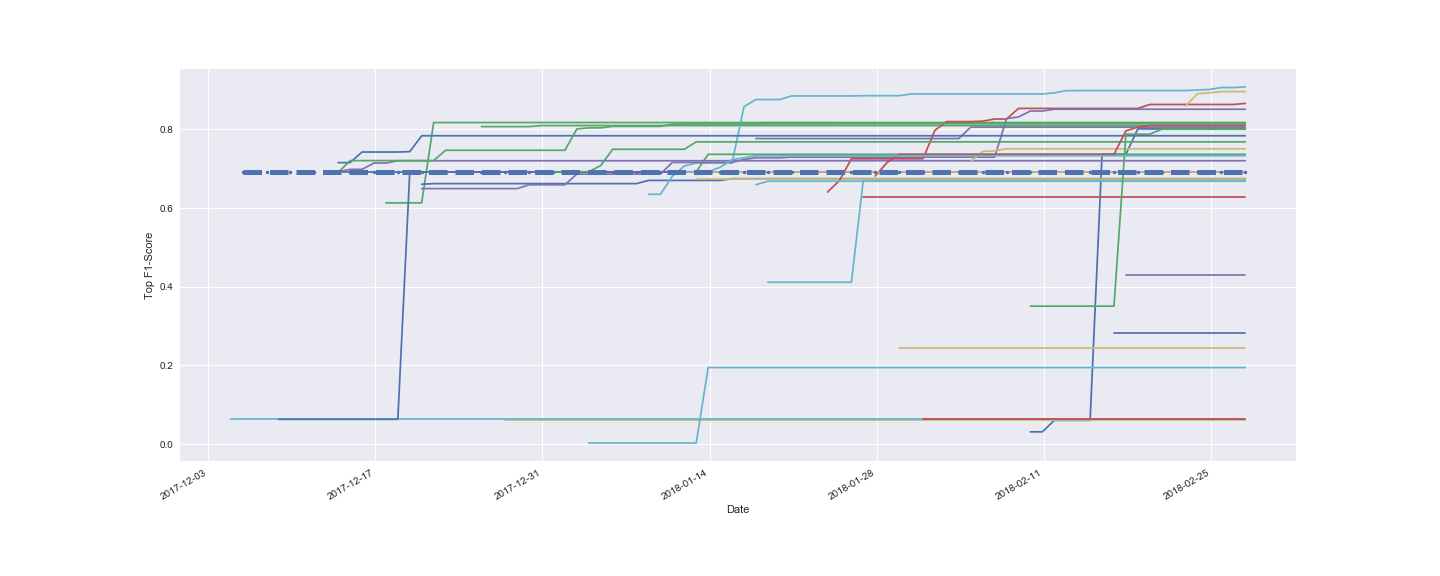
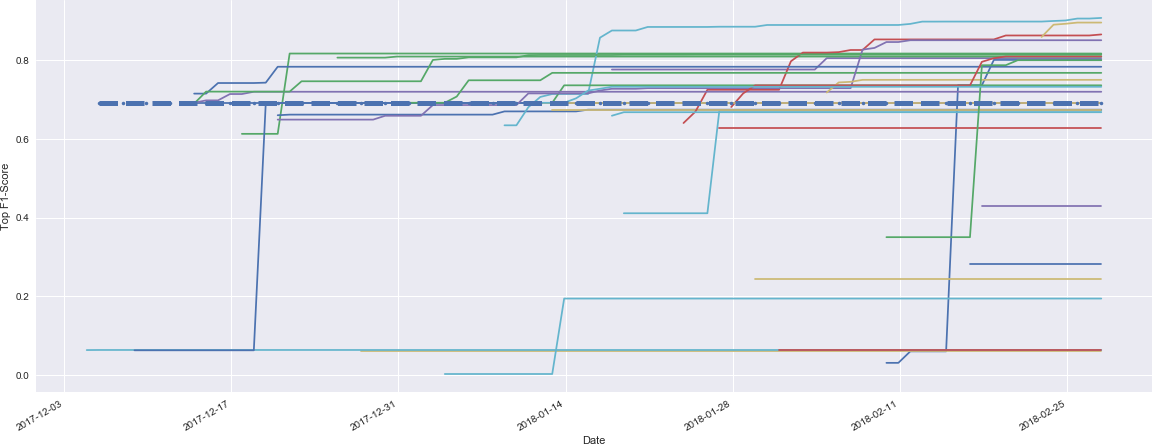
edit round

diff --git a/fma_crowdai_challenge.tex b/fma_crowdai_challenge.tex
@@ -5,10 +5,10 @@
 
 
 % Copyright
-%\setcopyright{none}
+\setcopyright{none}
 %\setcopyright{acmcopyright}
 %\setcopyright{acmlicensed}
-\setcopyright{rightsretained}
+%\setcopyright{rightsretained}
 %\setcopyright{usgov}
 %\setcopyright{usgovmixed}
 %\setcopyright{cagov}
@@ -72,19 +72,20 @@
 %\renewcommand{\shortauthors}{M. Defferrard et al.}
 
 % Content
-% * show statistics (e.g. results over time for all participants)
+% * compile the initial proposal on the challenge design into a paper
 % * discuss the challenge
+% * show statistics (e.g. results over time for all participants)
+%	* include stats of participation from the challenge
 % * offer an overview of the approaches that have been tried
 % * paper corresponds to what we'll talk about at the conference
 % * summary of what we learned overall during the challenge
-% * compile the initial proposal on the challenge design into a paper
-% * include stats of participation from the challenge
-% * summary of our experience running the challenge
-% * major problems faced
-% * suggestions for future versions of the challenge
+%	* summary of our experience running the challenge
+% 	* major problems faced
+%	* suggestions for future versions of the challenge
 
 \begin{abstract}
-	todo
+	We here summarize our experience running a challenge for musical genre recognition. We present the task, the need for an open challenge, how we set it up, and some results.
+	%We show how an open challenge can help improve a task.
 \end{abstract}
 
 
@@ -121,15 +122,17 @@ The task of this challenge, one of the four official challenges of the Web Confe
 % TODO: maybe remove the below.
 Other metadata, e.g.\ the song title or artist name, were not to be used for the prediction. The submitted algorithms were required to learn how to map an audio signal, i.e.\ a time series, to one of the 16 target genres.
 
-The data for this challenge comes from the recently published FMA dataset~\cite{fma_dataset}, which is a dump of the Free Music Archive\footnote{\url{https://freemusicarchive.org}} (FMA), an interactive library of high-quality and curated audio which is freely and openly available to the public.
-That dataset is a collection of 917 GiB and 343 days of Creative Commons-licensed audio from 106,574 tracks from 16,341 artists and 14,854 albums, arranged in a hierarchical taxonomy of 161 genres. It provides full-length and high-quality audio, pre-computed features, together with track- and user-level metadata, tags, and free-form text such as biographies.
-
-\section{Music Genre Recognition}
-
 Music genres are categories that have arisen through a complex interplay of cultures, artists, and market forces to characterize similarities between compositions and organize music collections. Yet the boundaries between genres still remain fuzzy, making the problem of music genre recognition (MGR) a nontrivial task~\cite{mir_review_genre}. While its utility has been debated, mostly because of its ambiguity and cultural definition, it is widely used and understood by end-users who find it useful to discuss musical categories~\cite{mgr_why}. As such, it is one of the most researched areas in the Music Information Retrieval (MIR) field.\footnote{See e.g.\ \cite{mgr_eval_1} for an extensive list of \textasciitilde500 references to works targeting MGR as of 2012.}
 
-% TODO: maybe remove the below.
-Given the extent to which MGR is studied, we expected many groups from the MIR community to be interested. Moreover, given the well-defined scope of the challenge, we expected members of the wider machine learning community to participate as well. Both communities are well versed in challenges, with e.g. Kaggle and NIPS for the ML community and the MIREX for the MIR community.
+The data for this challenge comes from the recently published FMA dataset~\cite{fma_dataset}, a dump of the Free Music Archive (FMA).\footnote{\url{https://freemusicarchive.org}}
+The dataset is a collection of 917 GiB and 343 days of Creative Commons-licensed audio from 106,574 tracks from 16,341 artists and 14,854 albums, arranged in a hierarchical taxonomy of 161 genres.
+% Maybe remove the below
+It provides full-length and high-quality audio, pre-computed features, together with track- and user-level metadata, tags, and free-form text such as biographies.
+
+%\section{Music Genre Recognition}
+
+% Maybe remove the below.
+%Given the extent to which MGR is studied, we expected many groups from the MIR community to be interested. Moreover, given the well-defined scope of the challenge, we expected members of the wider machine learning community to participate as well. Both communities are well versed in challenges, with e.g. Kaggle and NIPS for the ML community and the MIREX for the MIR community.
 
 \section{The Challenge}
 
@@ -145,37 +148,27 @@ We evaluated those against a new unseen test set. These 30s clips were sampled f
 % TODO
 The participants were also asked to post online the code of their approach as well as an executive summary of the method used to be eligible for the second round.
 
-Both rounds used the same evaluation metric. The primary score was the mean log loss and the secondary score was the mean $F_1$ score.
+Both rounds used the same evaluation metric. The primary score was the mean log loss and the secondary score was the mean F1 score.
 %For the subset of the test images which can have multiple correct genres, cross entropy loss with logits will be used to contribute to the final score.
 The mean log loss is defined by
 \begin{equation}
 	L = - \frac{1}{N} \sum_{n=1}^N \sum_{c=1}^{C} y_{nc} \ln(p_{nc}),
 \end{equation}
 where $N=35000$ is the number of examples in the test set,
-$C=16$ is the number of class labels, i.e.\ genres,
-$y_{nc}$ is a binary value indicating if the n-th instance belongs to the $c$-th label,
-$p_{nc}$ is the probability according to your submission that the $n$-th instance belongs to the $c$-th label,
-$\ln$ is the natural logarithmic function.
-The $F_1$ score for a particular class $c$ is given by
+$C=16$ is the number of genres,
+$y_{nc}$ is a binary value indicating if the $n$-th instance belongs to the $c$-th label,
+$p_{nc}$ is the probability according to a submission that the $n$-th instance belongs to the $c$-th label,
+and $\ln$ is the natural logarithm.
+The mean F1 score is given by
 \begin{equation}
-	F_1^c = 2\frac{p^c r^c}{p^c + r^c}, \hspace{1em}
+	F_1 = \frac{2}{C} \sum_{c=1}^{C} \frac{p^c r^c}{p^c + r^c}, \hspace{1em}
 	p^c = \frac{tp^c}{tp^c + fp^c}, \hspace{1em}
 	r^c = \frac{tp^c}{tp^c + fn^c},
 \end{equation}
-where
-$p^c$ is the precision for class $c$,
-$r^c$ is the recall,
-$tp^c$ refers to the number of true positives,
-$fp^c$ refers to the number of false positives,
-$fn^c$ refers to the number of false negatives.
-The final mean $F_1$ score is then defined as
-\begin{equation}
-	F_1 = \frac{1}{C} \sum_{c=1}^{C} F_1^c.
-\end{equation}
+where $p^c$ an $r^c$ are the precision and recall for class $c$, and $tp^c$, $fp^c$, $fn^c$ refers to the number of true positives, false positives, and false negatives.
 
-The challenge was hosted on www.crowdAI.org, a public platform for open challenges. Instructions on how to participate, access to training and test data, graded submissions, and the leaderboard were available on the challenge page.\footnote{\url{https://www.crowdai.org/challenges/www-2018-challenge-learning-to-recognize-musical-genre}}
-Moreover, we developed a starter kit\footnote{\url{https://github.com/crowdAI/crowdai-musical-genre-recognition-starter-kit}} which included code to handle the data and make a submission. It also featured some examples and a baseline.
-
+The challenge was hosted on crowdAI, a public platform for open challenges. Instructions on how to participate, access to training and test data, graded submissions, and the leaderboard were available on the challenge page.\footnote{\url{https://www.crowdai.org/challenges/www-2018-challenge-learning-to-recognize-musical-genre}}
+Moreover, we developed a starter kit\footnote{\url{https://github.com/crowdAI/crowdai-musical-genre-recognition-starter-kit}} with code to handle the data and make a submission. It also featured some examples and a baseline.
 Participants were encouraged to review the FMA paper~\cite{fma_dataset} for a detailed description of the data as well as the GitHub repository\footnote{\url{https://github.com/mdeff/fma}} for Jupyter notebooks showing how to use the data, exploring it, and training baseline models.\footnote{This challenge used the \texttt{rc1} version of the data.}
 
 \section{Results}
@@ -185,26 +178,35 @@ Participants were encouraged to review the FMA paper~\cite{fma_dataset} for a de
 % Ranking on round 1
 % Summarize the approaches taken by the two accepted papers (and cite them)
 
-\begin{figure}[h]
-\label{fig:jointplot}
-\includegraphics[width=8cm]{images/plot-1}
+\begin{figure}[t]
 \centering
-\caption{Joint plot of the distribution of the $F_1 score$  and the $Log Loss$ of all valid submissions made by the participants. The point marked in red represents the baseline submission prepared by the organisers at the beginning of the challenge. The plot only considers submissions with $Log Loss < 5 $ for interpretability. }
+\includegraphics[width=\linewidth,height=3.3cm]{images/plot-1}
+\caption{Joint distribution of the F1 score and the log loss of all valid submissions. The red point represents the baseline prepared by the organizers at the beginning of the challenge. The plot only considers submissions with log loss < 5 for interpretability.}
+\label{fig:jointplot}
 \end{figure}
 
-At the end of the first round of the challenge, we had engaged a total of 246 participants, who either made a submission, downloaded the datasets, or contributed in the discussion forums. From these 246 participants, 38 participants made at least one submission, with some of the top participants making as many as 110 submissions throughout the 1st round of the challenge.
-A total of 671 submissions were made in the first round, and of these, 77 were invalid submissions and 576 submissions were successfully graded. 
-From the 576 successfully graded submissions, a total of 364 submissions had a score better than the baseline submission provided by the organisers, based on their own previous work. Figure \ref{fig:jointplot} shows the distribution of the $F_1 Score$ and the $Log Loss$ for valid submissions in the challenge.
-The current rank \#1 on the leaderboard of the challenge has a $F_1 Score$ of $0.909$ and a $LogLoss$ of $0.330$, improving the state of art \textbf{(TODO: Add @michael's paper's citation)}  on this problem by \textbf{@michael: can you compute this value ?}.
-Figure \ref{fig:timeline} shows the progression of scores of all the participants through the Round-1 of the challenge, with each line representing one active participant in the challenge and their top-score at the point of time referenced by the x-axis.
+%TODO: talk about the baseline?
 
-\begin{figure*}[h]
-\label{fig:timeline}
+At the end of the first round, we had engaged a total of 246 participants, who either made a submission, downloaded the datasets, or contributed in the discussion forums. From these 246 participants, 38 made at least one submission, with some of the top participants making as many as 110 submissions throughout the first round.
+A total of 671 submissions were made in the first round. Of these, 77 were invalid and 576 were successfully graded.
+From those 576 submissions, 364 had a score better than the baseline provided by the organizers. Figure~\ref{fig:jointplot} shows the distribution of F1 scores and log losses for valid submissions.
+The current best solution has a F1 score of $0.909$ and a log loss of $0.330$. %,improving the state of art \textbf{(TODO: Add @michael's paper's citation)}  on this problem by \textbf{@michael: can you compute this value ?}.
+Figure~\ref{fig:timeline} shows the score progression of all the participants.
+
+Moreover, we reviewed and accepted two papers, one exploring gradient boosting techniques~\cite{gradient_boosting}, the other transfer learning~\cite{transfer_learning}.
+
+%We are now proceeding with the second round.
+
+\begin{figure}[t]
+\centering
 \includegraphics[width=\linewidth]{images/plot-2}
-\caption{ Plot of progression of scores of all the participants through round 1 of the challenge. Each line represents one active participant in the challenge, and their top-score at the point of time referenced by the x-axis. The dotted blue line represents the baseline score from the baseline submission.}
-\end{figure*}
+\caption{Score progression of all participants through the first round of the challenge. Each line represents an active participant. Their top F1 score is indicated on the y-axis at the point of time referenced by the x-axis. The dotted blue line represents the baseline.}
+\label{fig:timeline}
+\end{figure}
 
 \section{Conclusion}
+
+The outcome of this challenge are multiple: the two accepted papers presented a new perspective and introduced new methods for genre classification. While only two papers were accepted, all the participants to the second round will have to open-source their code. That will be useful to the community as baselines or to study how those models perform in other settings. Finally, the challenge introduced participants to the new FMA open dataset and was an opportunity for them to get familiar with it.
 
 That challenge was part of a wider effort to promote open evaluation in machine learning for music data, of which the release of the open FMA dataset was the first step~\cite{fma_dataset}. The goal of the initiative is to establish a reference benchmark based on open data. MIR research has historically suffered from the lack of publicly available benchmark datasets, which stem from the commercial interest in music by record labels, and therefore imposed rigid copyright. The FMA's solution was to aim for tracks which license permits redistribution. All data and code produced during the project and challenge are released under the CC BY 4.0 and MIT licenses.
 %The release of the dataset was acclaimed online, both by scientists on Twitter and GitHub, and on the FMA blog.
